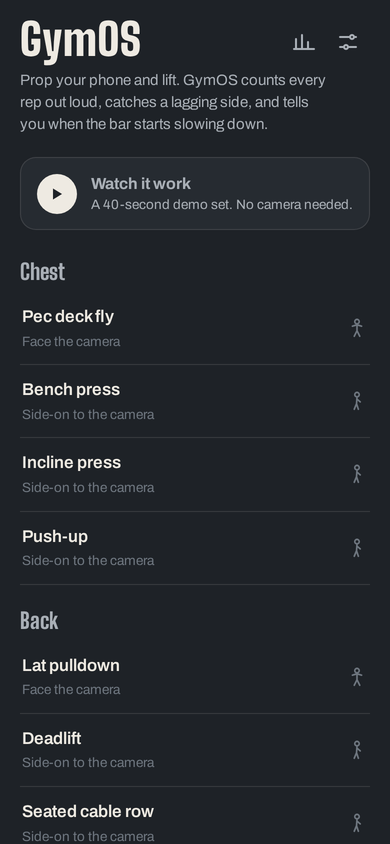
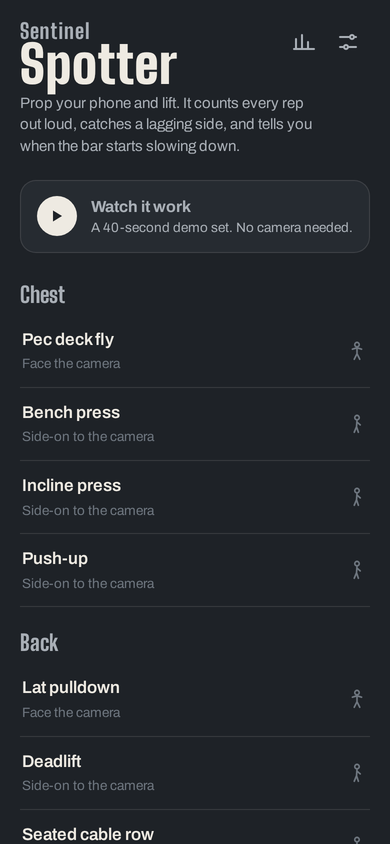
Rename GymOS to Sentinel Spotter
The name GymOS is already in use, so the app is now Sentinel Spotter
(short name "Spotter" on the home screen).

- App text, page title, share card, QR card, manifest, social preview
  image and README updated; the about screen notes "formerly GymOS"
- Stacked wordmark: "Sentinel" over "Spotter"
- Web address stays /gymos so shared links and QR codes keep working
- Storage key and pose-model cache name unchanged, so saved history,
  learned ranges and downloaded models carry over
- Archive banners now point to Sentinel Spotter

Claude-Session: https://claude.ai/code/session_016mm1CKnyf3KQNc919Pdrt3

diff --git a/index.html b/index.html
@@ -3,14 +3,14 @@
 <head>
 <meta charset="UTF-8">
 <meta name="viewport" content="width=device-width, initial-scale=1, viewport-fit=cover">
-<title>GymOS — your phone is your spotter</title>
-<meta name="description" content="GymOS watches your set through your phone camera, counts every rep out loud, catches lagging sides and tells you when the bar is slowing down. Free, private, no account.">
+<title>Sentinel Spotter — the spotter in your phone</title>
+<meta name="description" content="Sentinel Spotter watches your set through your phone camera, counts every rep out loud, catches lagging sides and tells you when the bar is slowing down. Free, private, no account.">
 <meta name="theme-color" content="#1E2227">
 <meta name="apple-mobile-web-app-capable" content="yes">
 <meta name="mobile-web-app-capable" content="yes">
 <meta name="apple-mobile-web-app-status-bar-style" content="black-translucent">
-<meta name="apple-mobile-web-app-title" content="GymOS">
-<meta property="og:title" content="GymOS — your phone is your spotter">
+<meta name="apple-mobile-web-app-title" content="Spotter">
+<meta property="og:title" content="Sentinel Spotter — the spotter in your phone">
 <meta property="og:description" content="Counts your reps out loud, flags a lagging side, and tells you when you're slowing down. Prop your phone and lift.">
 <meta property="og:image" content="https://jameskeithharwood.com/gymos/icons/og.png">
 <link rel="manifest" href="manifest.json">
@@ -52,7 +52,8 @@
   .scroll { flex: 1; overflow-y: auto; -webkit-overflow-scrolling: touch; padding: calc(var(--safe-t) + 20px) 20px calc(var(--safe-b) + 24px); }
 
   /* Shared type */
-  .wordmark { font-family: var(--display); font-weight: 900; font-size: 44px; line-height: 0.9; letter-spacing: 0.01em; }
+  .wordmark { font-family: var(--display); font-weight: 900; font-size: 52px; line-height: 0.86; letter-spacing: 0.01em; }
+  .wm-top { display: block; font-size: 21px; font-weight: 800; line-height: 1; color: var(--chalk2); letter-spacing: 0.04em; margin-bottom: 1px; }
   .h2 { font-family: var(--display); font-weight: 800; font-size: 34px; line-height: 1; }
   .muted { color: var(--chalk2); }
   .faint { color: var(--chalk3); }
@@ -308,13 +309,13 @@
   <section id="home" class="screen active" aria-label="Home">
     <div class="scroll">
       <div class="top">
-        <div class="wordmark">GymOS</div>
+        <div class="wordmark"><span class="wm-top">Sentinel</span>Spotter</div>
         <div style="display:flex">
           <button class="icon-btn" data-go="history" aria-label="History"><svg viewBox="0 0 24 24" fill="none" stroke="currentColor" stroke-width="2" stroke-linecap="round"><path d="M4 19V9M10 19V5M16 19v-7M22 19H2"/></svg></button>
           <button class="icon-btn" data-go="settings" aria-label="Settings"><svg viewBox="0 0 24 24" fill="none" stroke="currentColor" stroke-width="2" stroke-linecap="round"><path d="M4 7h10M18 7h2M4 17h4M12 17h8"/><circle cx="16" cy="7" r="2"/><circle cx="10" cy="17" r="2"/></svg></button>
         </div>
       </div>
-      <p class="lede">Prop your phone and lift. GymOS counts every rep out loud, catches a lagging side, and tells you when the bar starts slowing down.</p>
+      <p class="lede">Prop your phone and lift. It counts every rep out loud, catches a lagging side, and tells you when the bar starts slowing down.</p>
       <button class="demo-strip" id="demo-btn">
         <span class="play"><svg width="16" height="16" viewBox="0 0 16 16" fill="currentColor"><path d="M4 2.5v11l9-5.5z"/></svg></span>
         <span><b>Watch it work</b><span>A 40-second demo set. No camera needed.</span></span>
@@ -426,7 +427,7 @@
       <div class="h2">Machine QR code</div>
     </div>
     <div class="sheet-body">
-      <p class="muted small" style="margin-bottom:10px">Print this and tape it to the machine. Anyone who scans it opens GymOS with this exercise and these numbers ready to go.</p>
+      <p class="muted small" style="margin-bottom:10px">Print this and tape it to the machine. Anyone who scans it opens Sentinel Spotter with this exercise and these numbers ready to go.</p>
       <div id="qr-card"><div class="qn" id="qr-name"></div><div class="qp" id="qr-plan"></div><div id="qr-img"></div><div class="qf">Scan with your phone camera · Free · No account</div></div>
       <div id="qr-link"></div>
       <div class="setup-actions" style="margin-top:0">
@@ -451,14 +452,14 @@
   <div id="toast" role="status"></div>
 </div>
 
-<noscript><p style="padding:24px">GymOS needs JavaScript to run.</p></noscript>
+<noscript><p style="padding:24px">Sentinel Spotter needs JavaScript to run.</p></noscript>
 
 <script src="engine.js"></script>
 <script>
 'use strict';
 (function () {
 var G = window.GymEngine;
-var VERSION = '5.0';
+var VERSION = '5.1';
 var MP = 'https://cdn.jsdelivr.net/npm/@mediapipe/tasks-vision@1.0.1';
 var MODELS = {
   fast: 'https://storage.googleapis.com/mediapipe-models/pose_landmarker/pose_landmarker_lite/float16/1/pose_landmarker_lite.task',
@@ -470,7 +471,7 @@ function esc(s) { return String(s).replace(/[&<>"']/g, function (c) { return { '
 // ═══════════════════════════════════════════════════════════════
 // STORAGE
 // ═══════════════════════════════════════════════════════════════
-var KEY = 'gymos.v5';
+var KEY = 'gymos.v5'; // kept from the GymOS name so existing history carries over
 var DEFAULT_SETTINGS = {
   units: 'lb', voice: true, countAloud: true, cues: true, fatigue: 'standard', tempo: true,
   voiceCmds: true, chime: false, autoEnd: true, camera: 'user', model: 'fast', voiceName: ''
@@ -776,7 +777,7 @@ function renderSteppers() {
   var ex = W.ex, p = W.plan, u = ST.units;
   var rows = [
     ['sets', 'Sets', '', 1, 1, 10],
-    ['reps', 'Target reps', 'GymOS keeps counting if you go past it', 1, 1, 50]
+    ['reps', 'Target reps', 'It keeps counting if you go past it', 1, 1, 50]
   ];
   if (!ex.bodyweight) rows.push(['weight', 'Weight', '', ex.inc[u] || 1, 0, 1500]);
   rows.push(['rest', 'Rest', '', 15, 15, 600]);
@@ -799,7 +800,7 @@ function renderSteppers() {
 function renderCalLine() {
   var c = DB.calib[W.ex.id];
   if (W.calibrate) {
-    $('cal-status').innerHTML = c ? 'GymOS will re-learn your range first.' : 'Before set 1, two slow warm-up reps teach GymOS your range of motion.';
+    $('cal-status').innerHTML = c ? 'Spotter will re-learn your range first.' : 'Before set 1, two slow warm-up reps teach Spotter your range of motion.';
     $('cal-toggle').textContent = c ? 'Keep current' : 'Skip';
   } else {
     $('cal-status').innerHTML = c ? 'Your range is learned (' + rangeText(W.ex, c) + ').' : 'Using the standard range of motion.';
@@ -845,8 +846,8 @@ function beginWorkout(demo) {
     var cam = e && (e.name === 'NotAllowedError' || e.name === 'NotFoundError' || e.name === 'OverconstrainedError');
     stopWorkout();
     confirmBox(cam ? 'Camera unavailable' : 'Could not load the pose model',
-      cam ? 'GymOS needs your camera to see your reps. Allow camera access for this site in your browser settings, then try again.'
-          : 'Check your connection and try again. Once it loads one time, GymOS works offline.',
+      cam ? 'Spotter needs your camera to see your reps. Allow camera access for this site in your browser settings, then try again.'
+          : 'Check your connection and try again. Once it loads one time, Spotter works offline.',
       'Try the demo', function () { startDemoWorkout(); });
     show('setup');
   });
@@ -913,7 +914,7 @@ function enterCalibrate() {
   setControls('calibrate');
   W.calibrator = G.createCalibrator(W.ex);
   W.calDots = 0;
-  renderGuide('Two slow warm-up reps', 'Full range, nice and slow. These two don\'t count. They teach GymOS how you move.', null, 0);
+  renderGuide('Two slow warm-up reps', 'Full range, nice and slow. These two don\'t count. They teach Spotter how you move.', null, 0);
   Voice.say('Give me two slow warm up reps. Full range.', 1);
 }
 function onCalibrateFrame(f) {
@@ -1206,7 +1207,7 @@ function trackedIdx() {
 }
 
 // ═══════════════════════════════════════════════════════════════
-// DEMO — a simulated lifter so anyone can see GymOS work
+// DEMO — a simulated lifter so anyone can see Spotter work
 // ═══════════════════════════════════════════════════════════════
 function startDemoWorkout() {
   W.ex = G.byId('curl'); W.plan = { sets: 1, reps: 10, weight: 30, rest: 60 };
@@ -1321,12 +1322,12 @@ function shareCard(s, demo) {
     c.fillStyle = '#A9AFB6'; c.font = '500 34px Archivo, sans-serif';
     c.fillText('Bar height = speed. Watch the fatigue set in.', 80, H2 - 230);
     c.fillStyle = '#EEEAE2'; c.font = '900 72px "Big Shoulders Display", sans-serif';
-    c.fillText('GymOS', 80, H2 - 160);
+    c.fillText('Sentinel Spotter', 80, H2 - 160);
     c.fillStyle = '#A9AFB6'; c.font = '500 34px Archivo, sans-serif';
     c.fillText('Counted by my phone · jameskeithharwood.com/gymos', 80, H2 - 76);
     cv.toBlob(function (blob) {
       var file = new File([blob], 'gymos-' + ex.id + '.png', { type: 'image/png' });
-      var text = (demo ? 'GymOS demo: ' : 'Just did ') + ex.name + (ex.bodyweight ? '' : ' at ' + fmtW(s.weight, s.unit)) + ', ' + s.totalReps + ' reps. My phone counted every one.';
+      var text = (demo ? 'Sentinel Spotter demo: ' : 'Just did ') + ex.name + (ex.bodyweight ? '' : ' at ' + fmtW(s.weight, s.unit)) + ', ' + s.totalReps + ' reps. My phone counted every one.';
       if (navigator.canShare && navigator.canShare({ files: [file] })) {
         navigator.share({ files: [file], text: text, url: location.origin + location.pathname }).catch(function () {});
       } else {
@@ -1409,7 +1410,7 @@ function renderSettings() {
   html += '<div class="settings-h">Your data</div>';
   html += '<div class="set-row"><div><div class="t">Learned ranges</div><div class="d">' + Object.keys(DB.calib).length + ' exercise' + (Object.keys(DB.calib).length === 1 ? '' : 's') + '</div></div><button class="btn btn-ghost" style="min-height:40px;font-size:14px" id="reset-cal">Reset</button></div>';
   html += '<div class="set-row"><div><div class="t">Workout history</div><div class="d">' + DB.sessions.length + ' workout' + (DB.sessions.length === 1 ? '' : 's') + ' on this phone</div></div><button class="btn btn-red" style="min-height:40px;font-size:14px" id="wipe">Delete all</button></div>';
-  html += '<div class="about"><p>GymOS ' + VERSION + '. Pose tracking runs on your phone with Google MediaPipe. Video is never recorded or uploaded.</p><p>GymOS is not a substitute for a human spotter on heavy barbell lifts. Use safety bars.</p><p>Built by James Keith Harwood II · <a href="https://jameskeithharwood.com" target="_blank" rel="noopener">jameskeithharwood.com</a></p><p><button class="link" id="replay-ob" style="color:var(--blue);font-weight:600">Replay the intro</button></p></div>';
+  html += '<div class="about"><p>Sentinel Spotter ' + VERSION + ', formerly GymOS. Pose tracking runs on your phone with Google MediaPipe. Video is never recorded or uploaded.</p><p>Sentinel Spotter is not a substitute for a human spotter on heavy barbell lifts. Use safety bars.</p><p>Built by James Keith Harwood II · <a href="https://jameskeithharwood.com" target="_blank" rel="noopener">jameskeithharwood.com</a></p><p><button class="link" id="replay-ob" style="color:var(--blue);font-weight:600">Replay the intro</button></p></div>';
   $('settings-body').innerHTML = html;
   $('settings-body').querySelectorAll('.switch').forEach(function (b) { b.onclick = function () { ST[b.dataset.key] = !ST[b.dataset.key]; save(); b.setAttribute('aria-checked', ST[b.dataset.key]); }; });
   $('settings-body').querySelectorAll('.seg').forEach(function (s) {
@@ -1423,7 +1424,7 @@ function renderSettings() {
     });
   });
   var vs = $('voice-sel'); if (vs) vs.onchange = function () { ST.voiceName = vs.value; save(); Voice.repick(); Voice.unlock(); Voice.say('This is my voice.', 0); };
-  $('reset-cal').onclick = function () { confirmBox('Reset learned ranges?', 'GymOS will ask for two warm-up reps next time you do each exercise.', 'Reset', function () { DB.calib = {}; save(); renderSettings(); toast('Ranges reset.'); }); };
+  $('reset-cal').onclick = function () { confirmBox('Reset learned ranges?', 'Spotter will ask for two warm-up reps next time you do each exercise.', 'Reset', function () { DB.calib = {}; save(); renderSettings(); toast('Ranges reset.'); }); };
   $('wipe').onclick = function () { confirmBox('Delete all history?', 'This removes every workout saved on this phone. It cannot be undone.', 'Delete', function () { DB.sessions = []; DB.plans = {}; save(); renderSettings(); toast('History deleted.'); }); };
   $('replay-ob').onclick = function () { startOnboard(); };
 }
@@ -1460,7 +1461,7 @@ $('qr-btn').onclick = function () {
 $('qr-print').onclick = function () { window.print(); };
 $('qr-share').onclick = function () {
   var url = planUrl();
-  if (navigator.share) navigator.share({ title: 'GymOS · ' + W.ex.name, url: url }).catch(function () {});
+  if (navigator.share) navigator.share({ title: 'Sentinel Spotter · ' + W.ex.name, url: url }).catch(function () {});
   else if (navigator.clipboard) navigator.clipboard.writeText(url).then(function () { toast('Link copied.'); });
 };
 
@@ -1472,7 +1473,7 @@ var OB = [
     art: '<svg viewBox="0 0 300 220" fill="none" stroke-linecap="round" stroke-linejoin="round"><line x1="10" y1="196" x2="290" y2="196" stroke="#323941" stroke-width="4"/><rect x="34" y="120" width="40" height="72" rx="7" stroke="#EEEAE2" stroke-width="4" transform="rotate(-12 54 156)"/><rect x="80" y="150" width="22" height="46" rx="6" stroke="#6E767F" stroke-width="4"/><path d="M118 156 L170 120 M118 172 L190 156" stroke="#3D7BD9" stroke-width="3" stroke-dasharray="6 7"/><circle cx="222" cy="52" r="15" stroke="#EEEAE2" stroke-width="5"/><path d="M222 70 v62 M222 132 l-18 60 M222 132 l18 60 M222 86 l-26 26 l20 -30 M222 86 l26 26 l-20 -30" stroke="#EEEAE2" stroke-width="5"/></svg>' },
   { h: 'It counts. It watches.', p: 'Every rep counted out loud. Half reps don\'t count. A lagging side gets called out the moment it shows up.',
     art: '<svg viewBox="0 0 300 220"><text x="20" y="190" fill="#EEEAE2" font-family="Big Shoulders Display, sans-serif" font-weight="900" font-size="210">7</text><g fill="#A9AFB6"><rect x="170" y="120" width="16" height="70" rx="3"/><rect x="194" y="118" width="16" height="72" rx="3"/><rect x="218" y="124" width="16" height="66" rx="3"/><rect x="242" y="142" width="16" height="48" rx="3" fill="#F2C230"/><rect x="266" y="160" width="16" height="30" rx="3" fill="#E0393E"/></g></svg>' },
-  { h: 'It knows when you\'re slowing.', p: 'GymOS times how fast the weight moves up. When the bar slows, you\'re close to your limit, and it tells you. That\'s what a good spotter does.',
+  { h: 'It knows when you\'re slowing.', p: 'Spotter times how fast the weight moves up. When the bar slows, you\'re close to your limit, and it tells you. That\'s what a good spotter does.',
     art: '<svg viewBox="0 0 300 220" fill="none" stroke-linecap="round"><path d="M20 60 C 90 62, 150 70, 190 100 S 260 170, 284 190" stroke="#EEEAE2" stroke-width="6"/><circle cx="190" cy="100" r="9" fill="#F2C230"/><circle cx="262" cy="172" r="9" fill="#E0393E"/><text x="20" y="40" fill="#A9AFB6" font-family="Archivo, sans-serif" font-size="18">bar speed</text><text x="196" y="88" fill="#F2C230" font-family="Archivo, sans-serif" font-size="17">a couple left</text></svg>' }
 ];
 var obI = 0;
@@ -1512,7 +1513,7 @@ function boot() {
   if ('serviceWorker' in navigator && location.protocol === 'https:') navigator.serviceWorker.register('sw.js').catch(function () {});
 }
 // Test hooks: tests/ui.test.mjs feeds simulated poses through the real camera path
-window.GymOS = { W: W, DB: DB, show: show, startDemoWorkout: startDemoWorkout, feed: function (f) { processFrame(f); } };
+window.Spotter = { W: W, DB: DB, show: show, startDemoWorkout: startDemoWorkout, feed: function (f) { processFrame(f); } };
 boot();
 })();
 </script>

diff --git a/legacy/v3.html b/legacy/v3.html
@@ -136,7 +136,7 @@
 </style>
 </head>
 <body>
-<div style="position:fixed;left:0;right:0;bottom:0;z-index:9999;background:#F2C230;color:#231c00;font:600 12.5px/1.2 system-ui,sans-serif;padding:7px 10px calc(7px + env(safe-area-inset-bottom,0px));text-align:center">Archived GymOS v3 · <a href="../" style="color:#231c00;font-weight:800">Open the current version</a></div>
+<div style="position:fixed;left:0;right:0;bottom:0;z-index:9999;background:#F2C230;color:#231c00;font:600 12.5px/1.2 system-ui,sans-serif;padding:7px 10px calc(7px + env(safe-area-inset-bottom,0px));text-align:center">Archived GymOS v3 · <a href="../" style="color:#231c00;font-weight:800">Open Sentinel Spotter, the current version</a></div>
 <div id="app">
 
   <!-- ═══ START SCREEN ═══ -->

diff --git a/sw.js b/sw.js
@@ -1,8 +1,8 @@
-/* GymOS service worker — makes the app work offline after the first visit.
+/* Sentinel Spotter service worker — makes the app work offline after the first visit.
  * App files: network first, so updates arrive as soon as you're online.
  * Pinned libraries, pose models and fonts: cache first, they never change. */
-var APP = 'gymos-app-v5.0';
-var LIB = 'gymos-lib-v1';
+var APP = 'spotter-app-v5.1';
+var LIB = 'gymos-lib-v1'; // unchanged on purpose: keeps already-downloaded pose models
 var SHELL = ['./', 'index.html', 'engine.js', 'manifest.json', 'icons/icon-192.png', 'icons/icon-512.png', 'icons/icon-180.png'];
 var LIB_HOSTS = ['cdn.jsdelivr.net', 'storage.googleapis.com', 'fonts.googleapis.com', 'fonts.gstatic.com', 'cdnjs.cloudflare.com'];
 

diff --git a/legacy/v4.html b/legacy/v4.html
@@ -140,7 +140,7 @@
 </style>
 </head>
 <body>
-<div style="position:fixed;left:0;right:0;bottom:0;z-index:9999;background:#F2C230;color:#231c00;font:600 12.5px/1.2 system-ui,sans-serif;padding:7px 10px calc(7px + env(safe-area-inset-bottom,0px));text-align:center">Archived GymOS v4 · <a href="../" style="color:#231c00;font-weight:800">Open the current version</a></div>
+<div style="position:fixed;left:0;right:0;bottom:0;z-index:9999;background:#F2C230;color:#231c00;font:600 12.5px/1.2 system-ui,sans-serif;padding:7px 10px calc(7px + env(safe-area-inset-bottom,0px));text-align:center">Archived GymOS v4 · <a href="../" style="color:#231c00;font-weight:800">Open Sentinel Spotter, the current version</a></div>
 <div id="app">
 
   <!-- START SCREEN -->

diff --git a/engine.js b/engine.js
@@ -1,5 +1,5 @@
 /*
- * GymOS engine — pure rep-tracking logic. No DOM, no camera.
+ * Sentinel Spotter engine (formerly GymOS) — pure rep-tracking logic. No DOM, no camera.
  * Runs in the browser (window.GymEngine) and in Node (module.exports) so
  * every rule here is covered by tests/engine.test.js.
  *

diff --git a/tests/engine.test.js b/tests/engine.test.js
@@ -1,4 +1,4 @@
-// GymOS engine tests — simulated lifters, no camera needed.
+// Sentinel Spotter engine tests — simulated lifters, no camera needed.
 // Run: node tests/engine.test.js
 'use strict';
 const G = require('../engine.js');

diff --git a/README.md b/README.md
@@ -1,8 +1,10 @@
-# GymOS
+# Sentinel Spotter
 
-**Your phone is your spotter.** Prop it up, lift, and GymOS counts every rep out loud, catches a lagging side, and tells you when the bar is slowing down, so you can stop counting and focus on the muscle.
+*Formerly GymOS.*
 
-**[Open GymOS →](https://jameskeithharwood.com/gymos/)** · free · runs in the browser · no account · [watch the 40-second demo](https://jameskeithharwood.com/gymos/?demo)
+**The spotter in your phone.** Prop it up, lift, and it counts every rep out loud, catches a lagging side, and tells you when the bar is slowing down, so you can stop counting and focus on the muscle.
+
+**[Open Sentinel Spotter →](https://jameskeithharwood.com/gymos/)** · free · runs in the browser · no account · [watch the 40-second demo](https://jameskeithharwood.com/gymos/?demo)
 
 <p>
 <img src="docs/live.png" width="200" alt="Live set: giant rep count, speed bars turning yellow and red as the lifter slows, and a 'Grinding. Last rep.' alert">
@@ -17,24 +19,24 @@
 
 When you lift with a training partner, something changes. You stop counting. You stop monitoring yourself. You zone out and just move the weight. That mental offloading isn't a comfort feature. Focusing on the muscle beats focusing on counting, the clock, or the mirror.
 
-Every other fitness app pulls you *into* your screen during a set. GymOS pushes the screen into your peripheral vision. The voice handles everything, including the commands, so you never have to touch the phone.
+Every other fitness app pulls you *into* your screen during a set. Sentinel Spotter pushes the screen into your peripheral vision. The voice handles everything, including the commands, so you never have to touch the phone.
 
-GymOS began as an answer to a friend who was tired of workout apps that need your attention mid-set.
+Sentinel Spotter began as an answer to a friend who was tired of workout apps that need your attention mid-set.
 
 ## What it does
 
 | | |
 |---|---|
 | **Counts every rep out loud** | A rep only counts when you get back to where you started after reaching full range. Half reps are flagged as partials and not counted. On squats and bench, the rep counts when you stand or lock out, so a rep you get stuck on is never counted. |
-| **Tells you when you're slowing down** | GymOS times the lifting part of every rep. When it slows by 30% from your best rep, you hear *"Slowing down. A couple left."* At 45%: *"Grinding. Last rep."* Speed loss is a standard fatigue signal in strength training. |
+| **Tells you when you're slowing down** | Spotter times the lifting part of every rep. When it slows by 30% from your best rep, you hear *"Slowing down. A couple left."* At 45%: *"Grinding. Last rep."* Speed loss is a standard fatigue signal in strength training. |
 | **Calls out a lagging side** | Facing the camera, it tracks both arms separately and tells you *"Left arm is lagging"* when one side falls short. |
 | **Catches stalls** | If the weight stops moving mid-rep you hear *"Drive!"* If it stays stuck: *"Rack it. Safety first."* |
-| **Learns how you move** | Two slow warm-up reps teach GymOS your personal range of motion and your camera angle, instead of guessing from fixed angles. |
+| **Learns how you move** | Two slow warm-up reps teach Spotter your personal range of motion and your camera angle, instead of guessing from fixed angles. |
 | **Coaches tempo** | Drop the weight too fast twice in a row and it says *"Control the way down."* |
 | **Runs the whole session** | Ends the set when you rest or step away, runs the rest timer, counts you into the next set. |
-| **Hands-free** | Say "end set", "pause", "resume", "skip", "more time", "end workout". GymOS ignores its own voice so it never triggers itself. |
+| **Hands-free** | Say "end set", "pause", "resume", "skip", "more time", "end workout". Spotter ignores its own voice so it never triggers itself. |
 | **Remembers and progresses** | History is saved on your phone. The next session's weight is recommended from how your last one went: every set hit with speed to spare means go up, a grind means repeat, two rough sessions mean back off. |
-| **Machine QR codes** | Make a printable QR code for any machine. Scanning it opens GymOS with that exercise and plan ready to go. |
+| **Machine QR codes** | Make a printable QR code for any machine. Scanning it opens Sentinel Spotter with that exercise and plan ready to go. |
 | **Shareable results** | One tap makes a branded image of your workout's speed chart for social media. |
 | **Installs like an app, works offline** | Add it to your home screen. After the first visit, it works with no signal. |
 
@@ -71,7 +73,7 @@ One honest caveat: voice commands use your browser's built-in speech recognition
 
 ## Safety
 
-GymOS is not a substitute for a human spotter or safety bars on heavy barbell lifts. Its stall alert tells you to rack the weight. It cannot catch it.
+Sentinel Spotter is not a substitute for a human spotter or safety bars on heavy barbell lifts. Its stall alert tells you to rack the weight. It cannot catch it.
 
 ## Running and testing
 
@@ -91,7 +93,7 @@ The camera needs HTTPS (or localhost). GitHub Pages serves it over HTTPS.
 
 * 6–8 feet away, phone propped at about hip height. A water bottle, gym bag or bench works.
 * Face-on exercises: both arms fully in frame. Side-on exercises: the joints listed on the setup screen.
-* Good light helps. The position check turns each joint chip green when GymOS can see it.
+* Good light helps. The position check turns each joint chip green when Spotter can see it.
 * The **Accurate** tracking setting is better for side-on lifts and uses more battery.
 
 ## Roadmap
@@ -109,6 +111,7 @@ The camera needs HTTPS (or localhost). GitHub Pages serves it over HTTPS.
 
 | Version | What it was | Try it |
 |---|---|---|
+| **v5.1** (Oct 2026) | Renamed from GymOS to Sentinel Spotter |  |
 | **v5** (Oct 2026) | Phone spotter rebuild: speed-loss fatigue alerts, calibration, 16 exercises, history, QR codes, offline | [current](https://jameskeithharwood.com/gymos/) |
 | v4 (May 2026) | Seven-exercise schema, flexion/extension movement types, exercise picker | [archived](https://jameskeithharwood.com/gymos/legacy/v4.html) |
 | v3 (May 2026) | First MVP: curl rep counting, voice commands, rest timer | [archived](https://jameskeithharwood.com/gymos/legacy/v3.html) |
